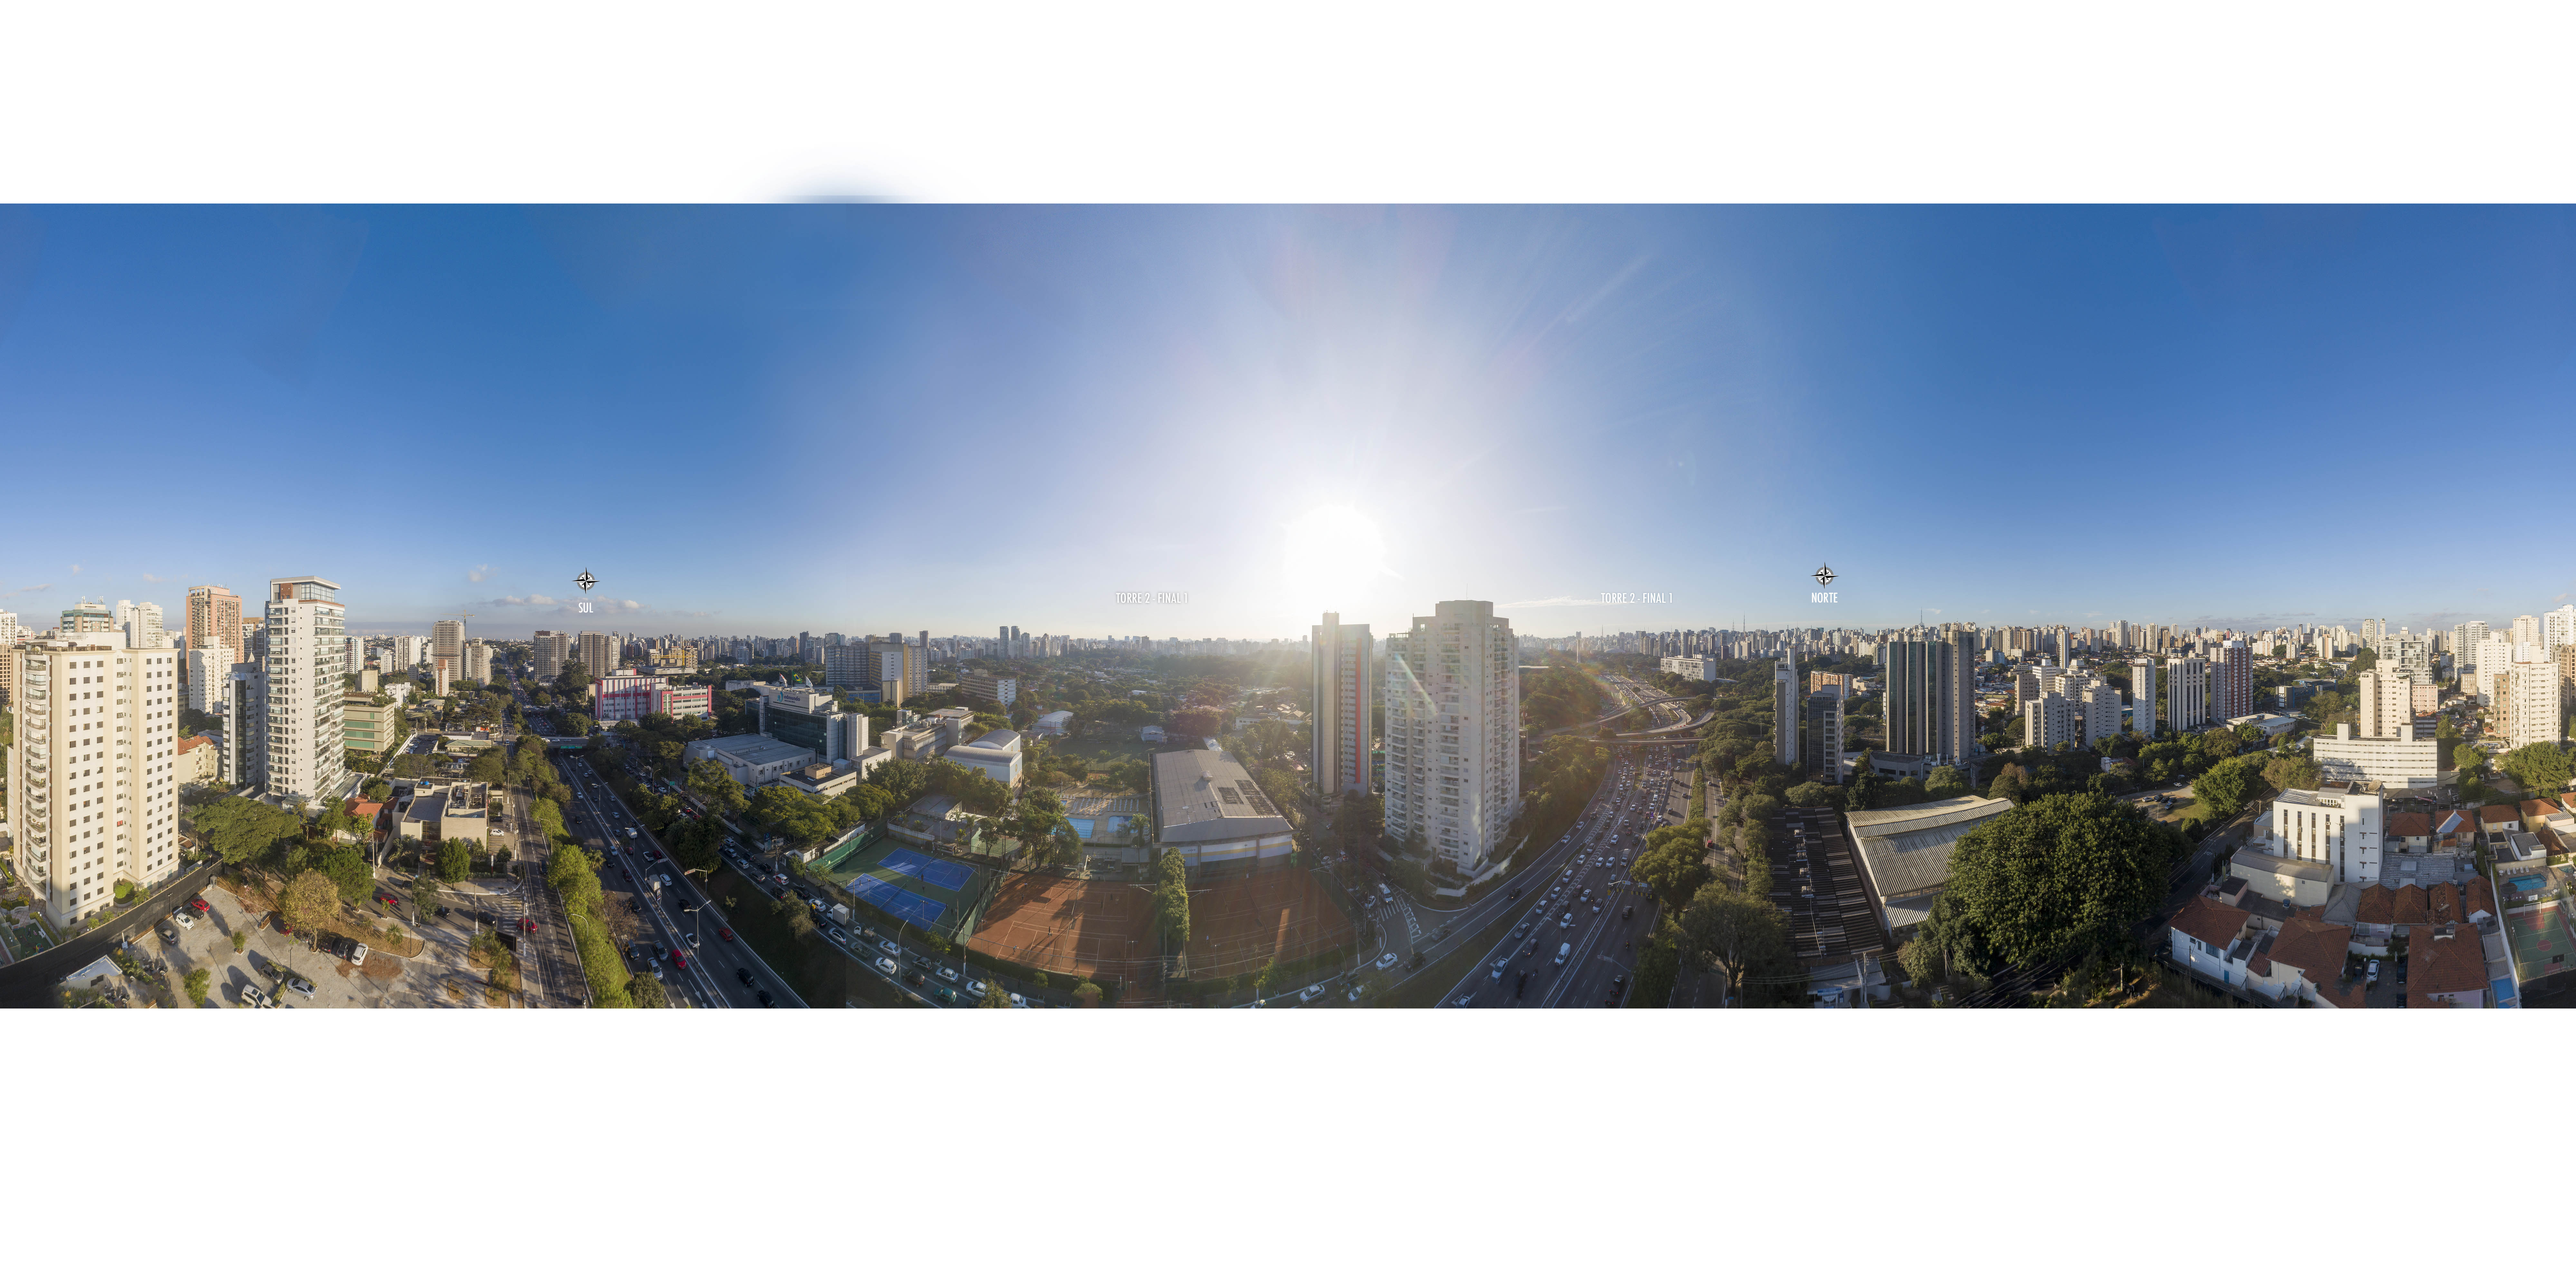
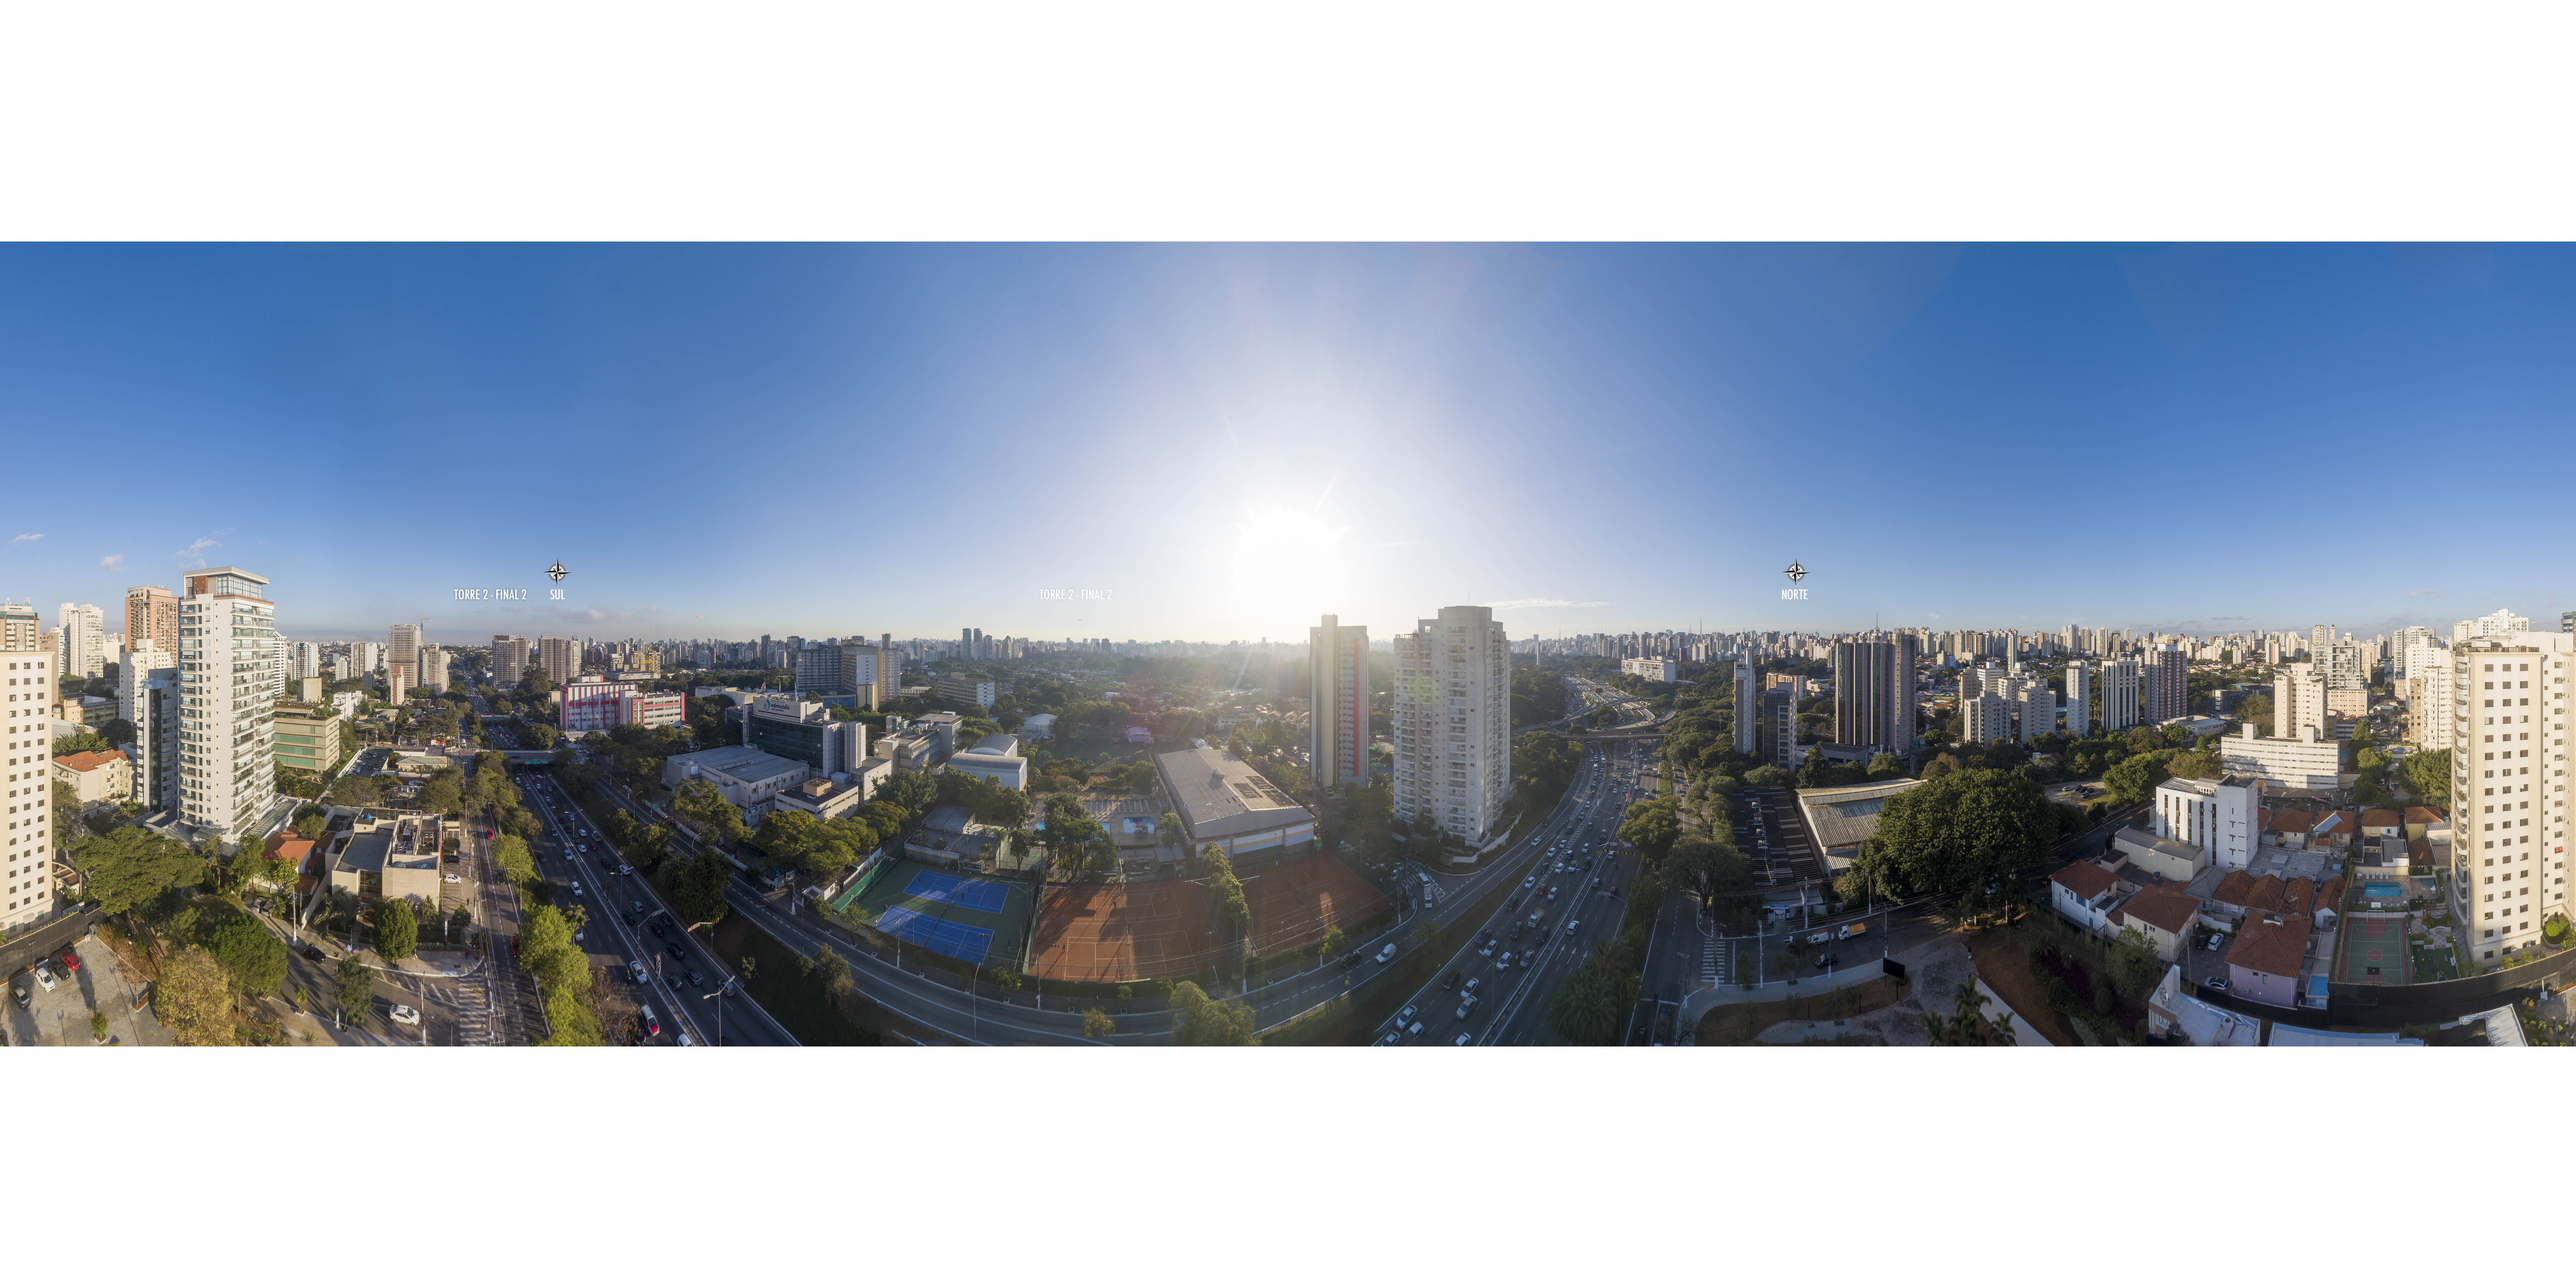
Initial files

Changed region(s): [[0.0, 0.4375, 1.0, 0.8125], [0.0, 0.125, 1.0, 0.25], [0.5625, 0.25, 0.5938, 0.3125]]

diff --git a/index.html b/index.html
@@ -2,7 +2,7 @@
   <head>
     <meta charset="utf8" />
     <meta name="viewport" content="width=device-width, initial-scale=1">
-    <title>360 Viewer - Carandá Torre 2 - Final 1</title>
+    <title>360 Viewer - Carandá Torre 2 - Final 2</title>
     <link href="https://cdn.jsdelivr.net/npm/photo-sphere-viewer@3.5.1/dist/photo-sphere-viewer.min.css" rel="stylesheet">
     <script src="https://code.jquery.com/jquery-3.4.1.min.js" integrity="sha256-CSXorXvZcTkaix6Yvo6HppcZGetbYMGWSFlBw8HfCJo=" crossorigin="anonymous"></script>
     <style>
